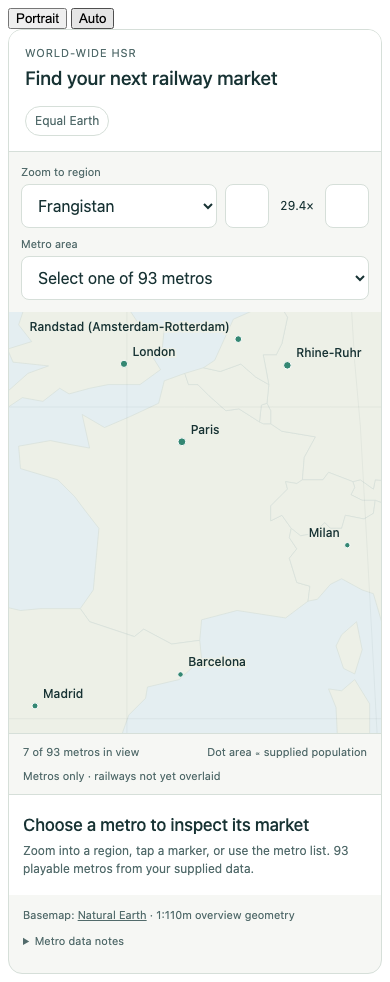
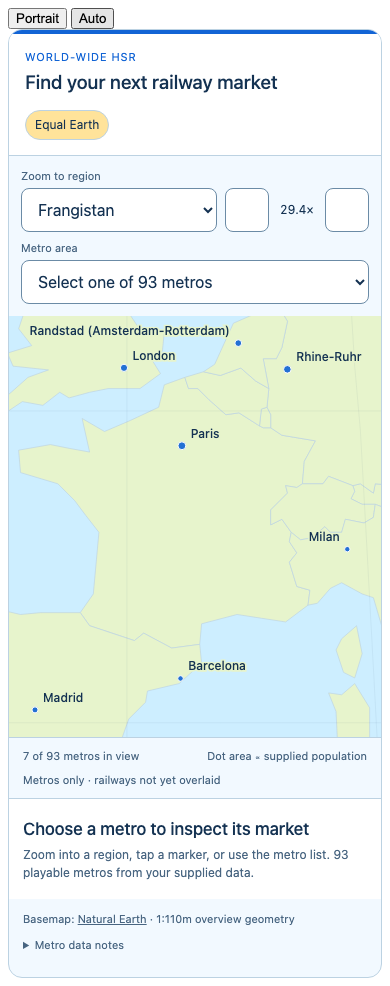
Add presentation and diagnostics contracts

diff --git a/tools/check-state-contracts.py b/tools/check-state-contracts.py
@@ -88,9 +88,13 @@ def main():
 
         def snapshot():
             return (db.execute("SELECT * FROM worlds").fetchall(),
-                    db.execute("SELECT * FROM operations ORDER BY actor,operation_key").fetchall())
+                    db.execute("SELECT * FROM operations ORDER BY actor,operation_key").fetchall(),
+                    db.execute("SELECT * FROM audit_events ORDER BY store_revision,event_index").fetchall())
 
         def commit(expected, candidate, host_state, actor, key, request_hash, response, fail_at=None):
+            # A canonical fixture command stands in for a production typed DTO.
+            request_json = json.dumps({"fixture_command": request_hash}, separators=(",", ":"))
+            request_hash = digest(request_json.encode())
             validator.validate(json.loads(encode(candidate)))
             db.execute("BEGIN IMMEDIATE")
             try:
@@ -101,6 +105,7 @@ def main():
                         raise ValueError("IdempotencyConflict")
                     db.execute("COMMIT")
                     return prior[2], json.loads(prior[1])
+                before_save = json.loads(db.execute("SELECT save_json FROM worlds WHERE world_id=?", (world_id,)).fetchone()[0])
                 changed = db.execute("UPDATE worlds SET store_revision=store_revision+1,save_json=?,host_json=?,updated_at_utc=? "
                                      "WHERE world_id=? AND store_revision=?",
                                      (encode(candidate), json.dumps(host_state), now, world_id, expected))
@@ -108,10 +113,19 @@ def main():
                     raise ValueError("StoreRevisionConflict")
                 if fail_at == "state":
                     raise RuntimeError("injected failure after state update")
-                db.execute("INSERT INTO operations VALUES (?,?,?,?,?,?,?)",
-                           (world_id, actor, key, request_hash, json.dumps(response), expected + 1, now))
+                db.execute("INSERT INTO operations VALUES (?,?,?,?,?,?,?,?)",
+                           (world_id, actor, key, request_hash, request_json, json.dumps(response), expected + 1, now))
                 if fail_at == "receipt":
                     raise RuntimeError("injected failure after receipt insert")
+                kind = ("month.resolved" if key.startswith("resolve:") else "scheduler.locked") if actor == "system" else ("command.rejected" if "error" in response else "command.committed")
+                company = actor.removeprefix("company:") if actor.startswith("company:") else None
+                month = before_save["payload"]["world"]["month"]
+                db.execute("INSERT INTO audit_events VALUES (?,?,?,?,?,?,?,?,?,?,?,?,?,?)",
+                           (world_id, expected + 1, 0, kind, "company" if company else "admin", company, key,
+                            month["year"], month["month"], before_save["payload_sha256"], json.loads(encode(candidate))["payload_sha256"],
+                            1, json.dumps({"operation_key": key, "outcome": response}), now))
+                if fail_at == "audit":
+                    raise RuntimeError("injected failure after audit insert")
                 db.execute("COMMIT")
                 return expected + 1, response
             except BaseException:
@@ -123,7 +137,7 @@ def main():
         changed_payload["world"]["plans"][0]["revision"] = "1"
         actor = "company:co_player"
         request = digest(b"apply-plan-month-2025-01-revision-0")
-        for point in ("state", "receipt"):
+        for point in ("state", "receipt", "audit"):
             before = snapshot()
             try:
                 commit(0, changed_payload, host, actor, "op_1", request, {"accepted": True}, point)
@@ -144,7 +158,7 @@ def main():
             else:
                 raise AssertionError("conflict accepted")
             assert snapshot() == before
-        checks.append("SQLite v1 bootstrap, configured durability, atomic rollback at state/receipt boundaries, CAS and actor/key deduplication")
+        checks.append("SQLite v1 bootstrap, configured durability, atomic rollback at state/receipt/audit boundaries, CAS and actor/key deduplication without duplicate audit events")
 
         db.close()
         db = sqlite3.connect(path, isolation_level=None); configure(db)
@@ -181,11 +195,12 @@ def main():
         db.backup(backup)
         assert backup.execute("SELECT * FROM worlds").fetchall() == before[0]
         assert backup.execute("SELECT * FROM operations ORDER BY actor,operation_key").fetchall() == before[1]
+        assert backup.execute("SELECT * FROM audit_events ORDER BY store_revision,event_index").fetchall() == before[2]
         assert backup.execute("SELECT count(*) FROM sessions").fetchone()[0] == 1
         assert backup.execute("PRAGMA integrity_check").fetchone()[0] == "ok"
         assert backup.execute("PRAGMA foreign_key_check").fetchall() == []
         backup.close(); db.close()
-        checks.append("SQLite backup preserves consistent world/receipts/identity rows; integrity and foreign-key checks")
+        checks.append("SQLite backup preserves consistent world/receipts/audit/identity rows; integrity and foreign-key checks")
 
     result = {"date": datetime.datetime.now(datetime.timezone.utc).date().isoformat(),
               "scope": "Reference JSON schema and SQLite transaction contract via Python sqlite3; not the production Go adapter or domain restore validator",

diff --git a/docs/contracts/server.go b/docs/contracts/server.go
@@ -39,9 +39,22 @@ type OperationReceipt struct {
 	Actor                  string // derived from authentication, or the scheduler's system actor
 	Key                    string
 	RequestSHA256          string
+	RequestJSON            json.RawMessage // canonical typed game command; no credentials
 	ResponseJSON           json.RawMessage
 	CommittedStoreRevision int64
 	CreatedAtUTC           string
+}
+
+type AuditEvent struct {
+	Kind              string
+	Scope             string // public, company, admin; projected views still authorize fields
+	CompanyID         *CompanyID
+	CorrelationID     string
+	Month             GameMonth
+	BeforeStateSHA256 string
+	AfterStateSHA256  string
+	PayloadVersion    uint16
+	PayloadJSON       json.RawMessage
 }
 
 type StoreCommit struct {
@@ -50,11 +63,12 @@ type StoreCommit struct {
 	SaveJSON              []byte
 	HostJSON              []byte
 	Receipt               *OperationReceipt
+	AuditEvents           []AuditEvent // nonempty; adapter assigns ordered event_index
 	UpdatedAtUTC          string
 }
 
 // WorldStore belongs to the application layer. SQL details stay in its adapter.
-// Commit atomically compares/increments store revision and writes state/receipt.
+// Commit atomically compares/increments revision and writes state/receipt/audit.
 type WorldStore interface {
 	Load(context.Context, WorldID) (StoredWorld, error)
 	LookupOperation(context.Context, WorldID, string, string) (OperationReceipt, bool, error)

diff --git a/docs/STATE_AND_STORAGE.md b/docs/STATE_AND_STORAGE.md
@@ -13,7 +13,7 @@ Use one mutable `World` aggregate per game, owned by its application/coordinator
 | Scenario and balance | Immutable content-addressed bundles: cities, node/route geometry, engineering profiles, train/track models, costs, contract/offer terms, and scenario constraints |
 | Business world | Companies; station/junction graph; ownership and access; projects; fleet/orders; services and acknowledged plans; finance; auctions/bids; reservations; cash journal; reports |
 | Derived indexes | Adjacency, spatial/search indexes, OD candidates, cache entries, free-cash totals, and lookup tables; rebuild after validated restore |
-| Server operations | Schedule/phase, locked resolution identity, operation receipts, authenticated sessions and invitations; excluded from portable saves and gameplay hashes |
+| Server operations | Schedule/phase, locked resolution identity, canonical command receipts, audit events, authenticated sessions and invitations; excluded from portable saves and gameplay hashes |
 | Local presentation | Camera, selection, audio, hints, replay cursor, and unsubmitted drafts; separate versioned UI records |
 
 The immutable bundle manifest transitively hashes all referenced assets. Saves pin exact bundle IDs and SHA-256 values, plus simulation/demand/allocation/RNG algorithm IDs. They do not copy the basemap or corridor polylines. New construction selects qualified catalog geometry; a later free-waypoint feature would need an explicit geometry representation and compatibility decision.
@@ -114,18 +114,19 @@ One server process owns `server-data/wwhsrt.sqlite` on a persistent local disk. 
 
 Use one database connection (`SetMaxOpenConns(1)`, `SetMaxIdleConns(1)`) and a short serialized database-write path. Configure/read back `foreign_keys=ON`, `journal_mode=DELETE`, `synchronous=EXTRA`, and `busy_timeout=5000` on connection creation. SQLite's [EXTRA setting](https://sqlite.org/pragma.html#pragma_synchronous) adds a directory sync for DELETE-journal commits. Calculate forecasts/months outside database transactions; a database lock is not held while the simulation runs. WAL is unnecessary for this initial access pattern.
 
-The [SQL bootstrap](contracts/server-v1.sql) contains four tables:
+The [SQL bootstrap](contracts/server-v1.sql) contains five tables:
 
 It uses SQLite [STRICT tables](https://sqlite.org/stricttables.html) (SQLite 3.37 or newer), application ID `0x57574852` and `user_version=1`. Bootstrap only when both identifiers are zero and the database is empty; otherwise validate the application ID and supported schema version before reading/writing. A file belonging to another application is not a schema-zero game database.
 
 | Table | Contents |
 | --- | --- |
 | `worlds` | Current whole-world save JSON, host-record JSON, store generation, update timestamp |
-| `operations` | Actor-scoped idempotency key, canonical request hash, exact authorized response and committed generation |
+| `operations` | Actor-scoped idempotency key, canonical typed game request and hash, exact authorized response and committed generation |
+| `audit_events` | Ordered committed/rejected/phase events with correlation, business month, before/after hashes and scoped versioned payloads |
 | `sessions` | World/company binding, hashed random bearer token, expiry/revocation; no plaintext token |
 | `invitations` | Hashed random invite token, target company, expiry and remaining uses |
 
-Keep entities inside the world snapshot instead of creating relational train/station/account repositories. This preserves the aggregate transaction boundary and keeps schema changes small. Operations are deduplication receipts, not an event-sourced world; restore does not replay them. Sessions/invitations are operational identity data, excluded from game exports. Validate company bindings against the world because company rows live inside its snapshot.
+Keep entities inside the world snapshot instead of creating relational train/station/account repositories. This preserves the aggregate transaction boundary and keeps schema changes small. Operations are deduplication/reproduction records, not an event-sourced world; ordinary restore does not replay them. Audit events and operation history follow [DIAGNOSTICS.md](DIAGNOSTICS.md), are retained for the world's lifetime, and do not enter portable saves or gameplay hashes. This extends the still-unreleased SQL v1 bootstrap; there is no historical database migration to run. Sessions/invitations are operational identity data, excluded from game exports. Validate company bindings against the world because company rows live inside its snapshot.
 
 V1 invitations target already-created company slots. Consume an invitation's remaining use and create the session in one identity-table transaction. Joining/reconnecting cannot create another company or starting-capital package. Creating an additional company is an explicit idempotent application command; an invitation is issued only after that company exists.
 
@@ -136,7 +137,7 @@ The [application-owned store port](contracts/server.go) exposes load, operation 
 1. Authenticate/authorize first. Derive the actor namespace on the server. Look up `(world, actor, operation_key)` before stale-month checks: a matching request hash returns its recorded result; a changed payload with the same key returns `IdempotencyConflict`.
 2. Apply a fresh operation to an isolated candidate world and validate it. Encode/check the candidate before beginning the database write.
 3. Inside the transaction, recheck the operation identity and expected store generation. Update `worlds` with `WHERE store_revision = expected`; require exactly one changed row, incrementing without integer overflow.
-4. Write the save, host state, and operation receipt in that same transaction. For an authenticated terminal business rejection, keep save/state revision unchanged but atomically store its error receipt and new store generation. Unauthenticated failures do not create world receipts.
+4. Write the save, host state, operation receipt/canonical game request, and nonempty audit event group in that same transaction. Assign event indices in stable order within the new store generation. For an authenticated terminal business rejection, keep save/state revision unchanged but atomically store its error receipt, rejection event and new store generation. Unauthenticated failures do not create world receipts. Replayed operations return the existing outcome without appending another business event.
 5. Commit successfully, then replace the coordinator's in-memory state and acknowledge/broadcast. Database errors before commit leave the old state usable. An ambiguous commit result requires reloading/checking the original receipt; stop further mutation until reconciled, rather than claiming the operation certainly failed.
 
 Use a pinned `sql.Conn` for `BEGIN IMMEDIATE`, every statement, and `COMMIT`/`ROLLBACK`, returning it to the pool only afterward. Do not mix connection-scoped transaction statements with `DB.Exec` calls that could wait for the same sole connection. Validate that a receipt's committed generation equals the compare-and-swap result. Generate session tokens from 32 cryptographically random bytes and invites from at least 16; store only their SHA-256 hashes.
@@ -167,6 +168,6 @@ Future SQL migrations run with the server stopped, a verified whole-database bac
 
 ## 6. Verification and remaining implementation
 
-The focused reference Go checks compile the types, compare the generated structural schema/example, check exact wide-integer round trips, reject duplicate/trailing JSON and tampered/future-schema envelopes. The Python contract checker validates the schema/example and fixture hashes and exercises SQLite bootstrap, atomic rollback, generation conflicts, deduplication, close/reopen and backup consistency.
+The focused reference Go checks compile the types, compare the generated structural schema/example, check exact wide-integer round trips, reject duplicate/trailing JSON and tampered/future-schema envelopes. The Python contract checker validates the schema/example and fixture hashes and exercises SQLite bootstrap, atomic world/receipt/audit rollback, generation conflicts, deduplication without duplicate events, close/reopen and backup consistency.
 
 These checks do not implement world mapping, complete semantic restore validation, the selected Go SQL driver, production native/browser storage, authentication, process locking or a server coordinator. Those are implementation tasks with the contracts above fixed for the first slice. Qualify real driver/filesystem/browser fault recovery and abrupt-process/power-loss behavior before claiming production durability. Follow [TESTING.md](../TESTING.md) for the focused commands and remaining gates.

diff --git a/docs/DIAGNOSTICS.md b/docs/DIAGNOSTICS.md
@@ -1,0 +1,44 @@
+# Diagnostic logging and event history
+
+Pervasive, structured event logging is a product requirement for debugging after the fact. Record enough context to connect a player's action to validation, authoritative commit, month resolution, storage and visible feedback. This is the implementation contract; runtime logging/adapters are not implemented yet.
+
+## Two complementary records
+
+**Diagnostic logs** explain execution, failures and timings. Use Go `log/slog` JSON output through application/adapter decorators, with bounded local files on native/server hosts and a bounded IndexedDB diagnostic store in the browser. The domain returns diagnostic facts/results; it does not perform log I/O or read the wall clock. Logs and their verbosity do not enter campaign hashes or affect outcomes.
+
+**Durable audit events and operation records** explain authoritative changes. On the server, store canonical typed game requests with their request hashes and outcomes in `operations`, and append ordered `audit_events` in the same SQLite transaction as the world, schedule and receipt. A committed change cannot lose its audit entry because a separate file logger failed. A retry returns the existing receipt and emits no duplicate business event. This augments snapshots; restoring the game does not require replaying an event-sourced database.
+
+Diagnostic logging failures never change simulation decisions. A failed SQLite audit write is a failed authoritative transaction, so no success acknowledgment is sent; it follows the ordinary store-failure/retry protocol. A diagnostic sink must not become an external service dependency for offline play.
+
+## Coverage
+
+| Area | Required events/context |
+| --- | --- |
+| Startup/lifecycle | Build/protocol/data/algorithm identities, platform, storage opened, resume/suspend, audio availability, shutdown |
+| Commands | Received/validated/rejected/committed/replayed, command kind, entity IDs, stable constraint codes and authoritative revisions |
+| Construction/fleet | Quote breakdown/rule identity, commitments, installments, cancellation, delivery, completion and access/ownership changes |
+| Monthly resolution | Durable lock identity; phase start/end, input/output hashes, durations, aggregate market/capacity/allocation/cash totals, invariant failures, completion |
+| Multiplayer | Session lifecycle, redacted admission failures, reconnect, stale plans, uncertain acknowledgments, deadlines, clock changes and bounded recovery |
+| Storage | Save/load/migration/backup start and outcome, schema/data versions, checksum, generation, transaction outcome and corruption/limit errors |
+| UX/render/audio | Intent and acknowledgment correlation, meaningful feedback scheduling/cancellation, input/lifecycle failures and slow frames; never one event per frame/train position |
+
+INFO covers meaningful lifecycle changes, committed actions and month summaries. Expected business-rule rejections use structured outcome codes rather than alarming stack traces. WARN covers recoverable problems; ERROR covers failed storage, invariant violations and crashes. DEBUG adds bounded forecast/allocation reasoning, cache behavior and selected service/OD traces. Use bounded asynchronous diagnostic queues so file/browser sink latency does not block the coordinator; drop verbose entries first under pressure and expose counts. Rate-limit noisy repeated failures and log the suppressed count. Do not sample away authoritative audit events.
+
+Each applicable event carries a schema/version, event name, severity, UTC timestamp, process/run ID, world/company ID, business month, request/correlation ID, operation key, relevant entity IDs, store/state/plan/network revisions, and stable outcome/error code. Stage timings use a host monotonic clock. Audit order is `(world_id, store_revision, event_index)`, independent of wall-clock ordering. State-changing events include before/after canonical payload hashes. Global startup events may omit world/company/month fields.
+
+A generic line such as “something failed” is insufficient. For example, a denied departure increase should identify the service, requested/granted return pairs, constraining section/station and rule version. Passenger allocation traces explain aggregate choices without logging individual passengers.
+
+## Retention, privacy and reproduction
+
+- Keep server audit/operation records for the world's lifetime. Store complete canonical **game command** DTOs, not raw HTTP headers or arbitrary request bodies. Initial limits are 1 MiB per command and 32 KiB for a mutation acknowledgment; large query results are not receipts. Audit payloads are capped at 8 KiB per event and summarize large sets with explicit omitted counts.
+- Initial rolling diagnostic caps: 16 MiB on desktop (four 4 MiB files), 128 MiB on the server (eight 16 MiB files), and 8 MiB in the browser, with a 30-day age cap. These are bounded diagnostic buffers, separate from durable audit retention. Drop/coalesce verbose diagnostics under pressure and expose dropped counts. Never discard authoritative retry history to meet a log-file cap.
+- Do not log bearer tokens, invite codes, credentials, raw authorization headers or whole save blobs. Diagnostic fields are allowlisted and bounded. Financial plans, bids and detailed forecasts remain company-private. The host's complete audit store is admin-only; player activity views receive separately authorized/redacted projections, not raw event JSON.
+- No gameplay telemetry is uploaded by default. **Export diagnostics** produces a local support bundle for deliberate sharing; it reports included company/world scope and any redaction. Never silently send a save, rival plan or diagnostic bundle elsewhere.
+- A reproducible bundle contains build/data/algorithm identities, a suitable checkpoint and ordered canonical commands after it, relevant audit/diagnostic records, and the first divergent hash. Server snapshots plus retained command receipts provide that history. In offline play, keep a bounded command journal alongside autosave generations; if storage failure/rotation leaves a gap, mark reproduction incomplete rather than claiming a replayable history.
+- Reproduce through the public application API with the pinned inputs. Host scheduling observations accompany the command log for investigating deadlines; wall-clock data does not become a domain input during canonical replay.
+
+Normal users see clear actionable errors and an export control under settings, not a permanent debug console. Developers/admins can enable detailed traces. Trace collection, rendering effects and audio preferences must leave canonical results unchanged.
+
+## Verification
+
+Test correlation from intent through durable outcome; exactly one audit event group after retry; rollback of world/receipt/audit together; sensitive-field exclusion and authorized exports; rotation/drop counters; and equal checkpoints with logging disabled, normal, verbose or a failed diagnostic sink. An abrupt-process recovery test must recover the committed audit trail as well as the world. The current SQL reference checker covers transaction-level audit consistency; it does not establish production logging or crash recovery.

diff --git a/docs/PRESENTATION.md b/docs/PRESENTATION.md
@@ -1,0 +1,42 @@
+# Visual identity, motion and sound
+
+The UI should feel cheerful, bright and inviting. This is a product requirement. The [theme manifest](../data/ui/theme.v1.json) defines the initial palette: vivid railway blue, tropical teal, sunflower yellow, coral and violet, supported by pale sky/warm-white surfaces, fresh green land and readable deep-ink text. Dark appearance keeps those lively accents on navy surfaces. Keep tables and financial text calm and clear while the railway provides color and motion.
+
+Bright colors have stable roles: blue for primary actions/owned rail, teal for public/open access, amber for construction, violet for rivals, coral for drafts. Pair them with labels, icons and different line styles. Bright fill colors are not automatically suitable for small text; use the dedicated dark/light text tokens. Required text contrast targets are 4.5:1 for normal text, 3:1 for large text, and 3:1 for necessary graphical/control boundaries. Use a contrasting rail casing when the accent alone cannot meet its background. Qualify actual rendered states, including focus, selection and disabled controls.
+
+## Motion grounded in the game
+
+Presentation consumes authoritative frames and resolved summaries. A preview, unacknowledged command or animation cannot make infrastructure operational. No animation/audio completion callback changes money, capacity, construction time or the business month.
+
+| Moment | Visual feedback | Sound direction |
+| --- | --- | --- |
+| Project committed | Planned corridor becomes an amber dashed work line; endpoint work markers appear after acknowledgment | Brief, light confirmation/metallic placement cue |
+| Construction advances | Brief sleeper/rail reveal or short work-front sweep on the selected visible project, progressing only after a resolved month | Soft rail clinks/tamping and restrained machinery texture, limited to the focused project |
+| Bridge/tunnel work | Relevant project symbol/segment changes with the project stage; no unexplained leap across the barrier | Subtle material/work texture, without a constant loud drilling loop |
+| Line opens | Construction styling changes to its operational style; short station/route highlight and opening receipt | Warm, short completion chime |
+| Train departs/runs | Small train markers follow the resolved path, accelerate/decelerate according to supplied replay timing and stop at called stations | Modern electric-motor rise, wheel/rail texture and a soft pass-by whoosh; avoid steam-engine conventions for HSR |
+| Service/arrival selected | Route and called stops highlight; a small arrival/dwell acknowledgment where timing is available | Quiet arrival cue or station ambience, never necessary to understand the result |
+
+V1 construction timing currently comes from accepted project start/ready months and status, not a metre-by-metre construction simulation. Label that view **scheduled construction progress**. A reveal is an illustration of the timeline; it must not claim that a particular partial section can carry trains. Use authored completed-work facts when the model later provides them. Stop the work reveal before its opening marker until the authoritative completion transition occurs.
+
+The representative operating day remains explicitly labeled as replay. Its train positions use resolved paths, departures and leg timings plus qualified dwell information; view speed changes only illustration. Render a bounded set of train markers, simplify at world scale, and focus detail on selected/nearby services. Do not animate every passenger or require the player to watch a replay to advance.
+
+Use short purposeful transitions: roughly 120–200 ms for control feedback, 250–400 ms for selection/focus changes, and at most about 800 ms for a construction/opening flourish. These are initial tuning targets. Never block an action until the flourish finishes, flash a whole screen, or keep every marker pulsing. Reconnecting after many months shows the latest state and one catch-up summary rather than playing a queue of old construction effects/chimes.
+
+## Sound and accessibility
+
+Provide master mute and independent music, effects and ambience levels, plus construction and operating-ambience toggles. Initial effects are gentle; warning sounds remain brief. Essential warnings always have text/visual equivalents. Remember these as local UI preferences, not campaign rules.
+
+Only foreground, visible/focused railway activity contributes contextual sound. Cap concurrent voices, combine dense activity into ambience, and avoid a global chorus of every train or construction site. Distance/zoom/selection can attenuate sounds. Pause/scrub or stop replay ambience with the replay; fast-forward does not emit a sound for every skipped departure. Opening sound triggers once per visible acknowledged event; reloading or retrying a command does not play it again automatically.
+
+Persist the latest seen business-event/cue identities in local UI state so an opening receipt does not chime repeatedly after reload. Running-train cues instead belong to an explicit playback session: starting replay again may produce its contextual sounds, while seeking/resume does not burst-play skipped cues. These presentation cursors never enter the portable world snapshot.
+
+Start/unlock browser audio through a user interaction and handle unavailable audio quietly. Suspend/mute activity on hidden/background views and resume without a backlog. The server never initializes audio. Sound assets and their licensing/provenance are tracked and bundled for offline play; actual recordings/synthesis choices and mixing still need an asset pass.
+
+Honor system reduced-motion preferences by default and expose an explicit override. Reduced motion replaces route-reveal sweeps and moving trains with stable progress/state changes, static positions and aggregate counts. Independent sound controls still apply. No repeated flashes or forced camera travel. On smaller/slower devices, reduce decorative particles/marker density before removing management information.
+
+## Implementation and verification
+
+`pkg/render` illustrates frames; `pkg/audio` receives presentation cue intents through a bounded mixer. Correlate cues to stable resolved event IDs to deduplicate them. Diagnostics may record scheduling/cancellation/failure summaries but not an event for every animation frame or audio sample. Neither presentation component can mutate the domain or consume campaign RNG.
+
+Validate light/dark contrast, color-vision alternatives and real phone readability. Compare canonical checkpoints with effects/sound on/off, reduced motion and different replay speeds. Test cue deduplication after retries/reload/reconnect, no backlog on resume, mute/volume controls, browser audio unlock/failure, background suspension, bounded marker/voice counts and CPU/memory. Physical phones, audio assets and actual game effects remain to implement and qualify; a recolored prototype is visual direction, not proof those effects exist.

diff --git a/docs/UX.md b/docs/UX.md
@@ -205,7 +205,7 @@ Standing services continue while the player is away. The interface helps prepare
 
 ## 8. Input, accessibility, and visual density
 
-Use a restrained contemporary transport-map style: clear labels, distinct railway line styles, readable numerals, light and dark appearances, and motion that explains routes or selection. Station activity and the representative day provide character. Keep financial panels calm enough to read. High resolution improves detail and available workspace rather than shrinking controls.
+Use a cheerful contemporary transport-map style with bright railway blue, teal, sunflower yellow, coral and violet accents, fresh map colors, and readable deep-ink typography. Clear labels, distinct railway line styles, readable numerals, light and dark appearances, and purposeful motion keep it usable. Station activity and the representative day provide character. Keep financial panels calm enough to read. High resolution improves detail and available workspace rather than shrinking controls. The [presentation specification](PRESENTATION.md) and [theme manifest](../data/ui/theme.v1.json) define the initial palette and semantic roles.
 
 All visible actions, keyboard commands, and touch controls emit the same intent with the same validation. Escape/Back closes one transient layer or returns within a task; it never silently applies or discards a draft. Text editing owns its shortcuts. Avoid a bare Space shortcut for month advancement, where a player may intend to pause replay. Any advance shortcut is documented, guarded against key-repeat, and unavailable inside editors/modals.
 
@@ -214,6 +214,10 @@ Proposed defaults: 16 logical px body text, larger text options, at least 44×44
 For web interfaces, W3C's [Reflow guidance](https://www.w3.org/WAI/WCAG22/Understanding/reflow.html) describes 320 CSS px reflow while recognizing genuinely two-dimensional content such as maps. Its [Target Size guidance](https://www.w3.org/WAI/WCAG22/Understanding/target-size-minimum.html) sets a 24 CSS px AA minimum with exceptions and identifies 44 CSS px as the enhanced threshold. The proposed 44 px touch default is a product choice; these sources do not establish that the game already conforms to WCAG.
 
 Accessible labels, focus order, visible focus, error association, selected states, and meaningful announcements are required for management controls. City, service, route-alternative, and report lists provide a non-spatial path through core decisions. Reduced motion replaces train movement with static positions and aggregate counts, removes camera tweening, and retains full operating information. Audio has separate controls and never carries a unique warning.
+
+### Railway motion and sound
+
+Show short track/sleeper reveals and work-front effects when authoritative construction progress changes, then an opening highlight when the line actually becomes operational. V1 timeline-derived progress is labeled scheduled; animation does not make unfinished track usable. Train markers follow resolved operating-day paths/timing, with appropriate electric-train departure, rolling and pass-by sounds plus selected station ambience. Refer to [PRESENTATION.md](PRESENTATION.md) for cues, timing, mixing, deduplication, reduced motion and background behavior. Keep master mute and independent music/effects/ambience controls available. Never replay a backlog of sounds after reconnect or make the player wait for an effect to finish.
 
 ## 9. Implementation constraints and early feasibility work
 

diff --git a/docs/validation/README.md b/docs/validation/README.md
@@ -6,7 +6,7 @@
 
 The [state/storage design](../STATE_AND_STORAGE.md) selects SQLite for the dedicated server and defines portable save v1. The focused Go reference checks compile its type declarations, compare generated schema/example output, and exercise wide-integer round trips, checksum/version handling and duplicate/trailing JSON rejection.
 
-The [Python contract checker](../../tools/check-state-contracts.py) and [results](state-contract-checks.json) cover the structural schema, fixture bundle hashes, SQLite bootstrap/settings, transaction rollback, compare-and-swap conflicts, idempotency receipts, reopen, locked-month atomicity and backup consistency. This uses Python's SQLite, not a production Go adapter. The reference decoder does not yet implement the full structural/domain restore pipeline. No crash-process/power-loss, authentication, network, native/browser storage, or full-game persistence qualification is claimed.
+The [Python contract checker](../../tools/check-state-contracts.py) and [results](state-contract-checks.json) cover the structural schema, fixture bundle hashes, SQLite bootstrap/settings, atomic world/receipt/audit rollback, compare-and-swap conflicts, idempotency without duplicate audit events, reopen, locked-month atomicity and backup consistency. This uses Python's SQLite, not a production Go adapter. The reference decoder does not yet implement the full structural/domain restore pipeline. No crash-process/power-loss, authentication, network, native/browser storage, or full-game persistence qualification is claimed.
 
 ## Equal Earth map
 
@@ -22,6 +22,9 @@ The latest presets also use orientation-specific Frangistan anchors, separate Ea
 
 Checks cover raw-record equality, 177 country geometries, forward-projection agreement for every marker, world reset, regional zoom, raw-value inspection, dense markers, narrow layouts, dark appearance, and reduced-motion navigation. [Map results](map-checks.json) include the subpixel projection comparison. The [checker](../../tools/check-map-preview.cjs) accepts a locally served visualization preview URL.
 
+The current map preview applies [cheerful-rail-v1](../../data/ui/theme.v1.json). Its core normal-text/action/bright-fill text pairs were calculated at 4.5:1 or better in light and dark palettes; browser checks verify the manifest and actual action foreground colors. This is not full accessibility qualification. Construction/train motion and sound are specified in [PRESENTATION.md](../PRESENTATION.md), not implemented by this metro-only map or validated by these palette checks.
+
+- [Cheerful dark palette](equal-earth-palette-dark.png)
 - [Dhaka eastern-edge starting view](equal-earth-dhaka-edge-portrait.png)
 - [Karachi western-edge starting view](equal-earth-karachi-edge-portrait.png)
 - [Portrait Americas starting view](equal-earth-portrait-preview.png)

diff --git a/docs/DESIGN.md b/docs/DESIGN.md
@@ -478,6 +478,8 @@ Show construction cost, opening date, first operating-month ridership and operat
 
 ### Main screen
 
+Use a cheerful bright visual identity with purposeful construction/train motion and sound, as defined in [PRESENTATION.md](PRESENTATION.md). Animation follows authoritative project progress and resolved operating-day timing; it cannot complete work or advance time. Reduced motion, master mute and separate sound channels preserve full playability.
+
 The detailed [interaction, layout, and onboarding specification](UX.md) defines the screen compositions and task flows. Four stable destinations are Map, Services (including fleet), Company (including finance), and Reports. The map is the principal workplace; Watch operating day is a distinct replay mode within it.
 
 - **Status strip:** business month and unrestricted cash; Advance month offline, or the server deadline and plan acknowledgment state online. Phone branding scrolls away while the compact status remains available. Wider layouts add operating cash flow, runway, and debt.
@@ -716,7 +718,7 @@ First targets: macOS arm64, Windows amd64, Linux amd64, and desktop plus smartph
 
 Desktop and web share rules, content versions, saves, and checkpoints. Browser execution yields between bounded calculation stages so forecasts and monthly resolution do not freeze controls indefinitely. Native and browser builds must not depend on divergent domain code paths.
 
-Diagnostics are local, structured, and bounded. They record command failures, invariant failures, storage outcomes, data identities, and slow operations. No gameplay telemetry is uploaded by default. Audio begins after browser interaction and respects focus, mute, volume, and reduced-motion preferences where relevant.
+Pervasive diagnostics follow [DIAGNOSTICS.md](DIAGNOSTICS.md): correlate intents, validation, authoritative commits, construction/fleet changes, monthly phases, storage, networking and presentation failures. Keep rolling local diagnostics bounded; persist canonical game requests and audit events with authoritative server commits for after-the-fact investigation. Never log credentials or expose rival-private plans to players. No gameplay telemetry is uploaded by default. Audio begins after browser interaction and respects focus, mute, volume, and reduced-motion preferences where relevant.
 
 ## 13. Verification and performance
 

diff --git a/TESTING.md b/TESTING.md
@@ -111,9 +111,11 @@ These are planned gates, not existing scripts. Add concrete commands when their 
 | Persistence | Save/reload continuation equals uninterrupted play; failed writes/loads preserve committed/live state; data-version compatibility, single-writer browser storage, and portable export/import |
 | Determinism | Identical command logs and versioned data yield matching canonical checkpoints across supported native targets and WebAssembly; replay/help/forecast behavior cannot affect them |
 | Multiplayer | Shared OD demand and finite capacity, company authorization/private frames, idempotent retries, acknowledgments, atomic month commits, and crash recovery |
+| Diagnostics/audit | Correlated outcomes, atomic world/receipt/audit persistence, exactly-once business events after retry, redaction/export authorization, bounded queues/rotation, reproducible command histories, and unchanged checkpoints with logging disabled/verbose/failed sinks |
 | Scheduling | Injected clocks test 15-minute boundaries, absent players, backward/forward clock changes, and the proposed bounded outage catch-up; do not wait real hours in ordinary correctness checks |
 | Full workflows | Construction-led and existing-track starts, disconnected networks and later joins, service/report/cash flows, auctions/open access, grants/loans, insolvency, and continuation |
 | Presentation | Shared intent behavior, draft preservation, drawing/picking agreement, text/DPI reflow, reduced motion, phone rotation/keyboard/back/resume, and meaningful semantic controls |
+| Palette/motion/audio | Light/dark contrast and color-independent states; state-grounded rail/train effects, cue deduplication, no reconnect backlog, audio unlock/background/mute handling, bounded voices/markers, and unchanged results across effect/replay preferences |
 
 The [design's end-to-end scenarios](docs/DESIGN.md#end-to-end-scenarios) remain the full scenario checklist. Extend that list and relevant checks together when a gameplay rule changes. Use example tests and targeted Go fuzz/property tests for mathematical/allocation boundaries; a third-party property framework or blanket mutation-testing requirement is not necessary to begin.
 

diff --git a/ARCHITECTURE.md b/ARCHITECTURE.md
@@ -111,6 +111,12 @@ Camera, selection, dismissed hints, replay position, and drafts are local UI sta
 
 The current ebitenui spike proves visual layout and selected input paths, not accessible management controls or physical-phone behavior. Keep the semantic HTML browser-HUD fallback open; native accessibility also needs qualification. Resolve this host decision in the first milestone before building a large inventory of canvas forms.
 
+The [presentation contract](docs/PRESENTATION.md) requires a cheerful bright palette and state-grounded construction/train animation and sound. Renderer/audio consume frames and deduplicated presentation cues, never mutate campaign state, and honor reduced motion, mute and lifecycle preferences.
+
+## Diagnostics and audit
+
+Pervasive structured diagnostics are required, through explicit Go `log/slog` decorators/adapters and domain-returned facts. The [diagnostics contract](docs/DIAGNOSTICS.md) defines coverage, correlation, retention, privacy, support exports and reproducibility. Rolling diagnostic sinks are bounded and non-authoritative. Server canonical game requests and ordered audit events persist with world/host/receipt commits in SQLite; retry cannot duplicate a business event. Audit data is admin-private and separately projected for player-visible activity. Logging verbosity, dropped verbose events and audio/render tracing cannot alter canonical outcomes.
+
 ## Persistence and lifecycle
 
 Use versioned JSON snapshots behind application-owned persistence ports, with filesystem and IndexedDB adapters. Persist a consistent world, not independent per-city/train repositories. Include data and algorithm identities, obligations, protected reservations, owned assets, plans, reports, and replay summaries. Server storage additionally owns scheduling and operation identities; authentication secrets stay separate from downloadable game data.

diff --git a/data/README.md b/data/README.md
@@ -2,6 +2,8 @@
 
 ## Prototype basemap
 
+[ui/theme.v1.json](ui/theme.v1.json) records the cheerful light/dark palette and semantic color roles. The [presentation contract](../docs/PRESENTATION.md) defines its contrast targets and construction/train animation and sound behavior.
+
 [prototypes/map-region-presets.v1.json](prototypes/map-region-presets.v1.json) records the user-defined region labels, landscape/portrait metro anchor sets, latitude cushion, and timezone-selected initial portrait views for map framing. Bounds are derived from raw metro coordinates at runtime; no metro records are renamed or edited by these presentation presets.
 
 [prototypes/natural-earth-110m.countries.geojson](prototypes/natural-earth-110m.countries.geojson) contains 177 Natural Earth country geometries and names for the Equal Earth world/region mockup. Its [manifest](prototypes/natural-earth-110m.metadata.json) records the public-domain source, source/processed hashes, snapshot date, and transformation. This is overview artwork, not qualified terrain, station positions, rail topology, or production regional detail. The raw seed preserves all 96 records. The [playable catalog](prototypes/playable-metros.v1.json) retains the original values of 93 metros with populations of at least 5M, excluding Manila, Taipei, and Brasília according to the [selection policy](prototypes/playable-metro-selection.v1.json). Display names omit a trailing “Metropolitan Area” without changing source names; [validation evidence](../docs/validation/README.md) describes projection and raw-data checks.

diff --git a/README.md b/README.md
@@ -16,6 +16,8 @@ The [state and storage contract](docs/STATE_AND_STORAGE.md) defines concrete Go 
 
 The [interaction and UX specification](docs/UX.md) defines map-centered decisions, contextual learning during ordinary play, and complete phone workflows that expand into simultaneous map, planning, and comparison views on larger displays.
 
+The [presentation specification](docs/PRESENTATION.md) defines the bright palette and construction/train motion and sound. The [diagnostics contract](docs/DIAGNOSTICS.md) defines pervasive event logging, durable audit history and support bundles.
+
 The [world-data notes](data/README.md) describe the supplied 96-metro seed, its population/GDP estimates, and its role alongside smaller corridor cities.
 
 The [construction-cost research](docs/CONSTRUCTION_COSTS.md) supports 20 regional cost profiles, with HSR benchmarks, conventional-rail extrapolations, and explicit price/scope assumptions.
